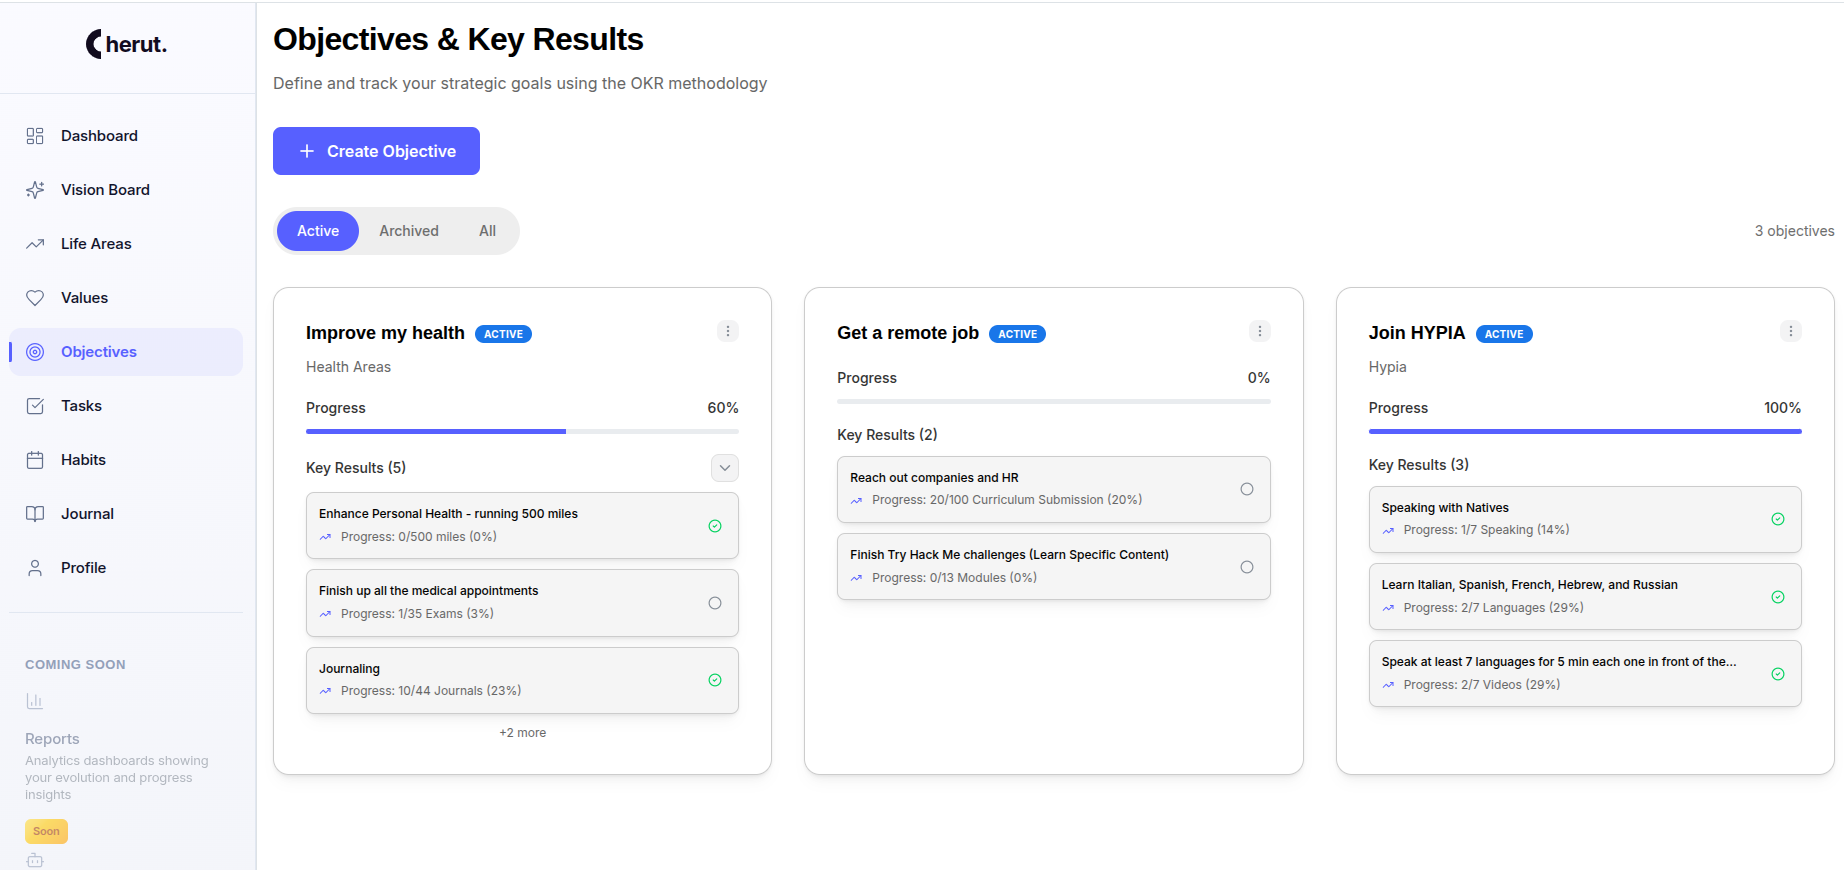
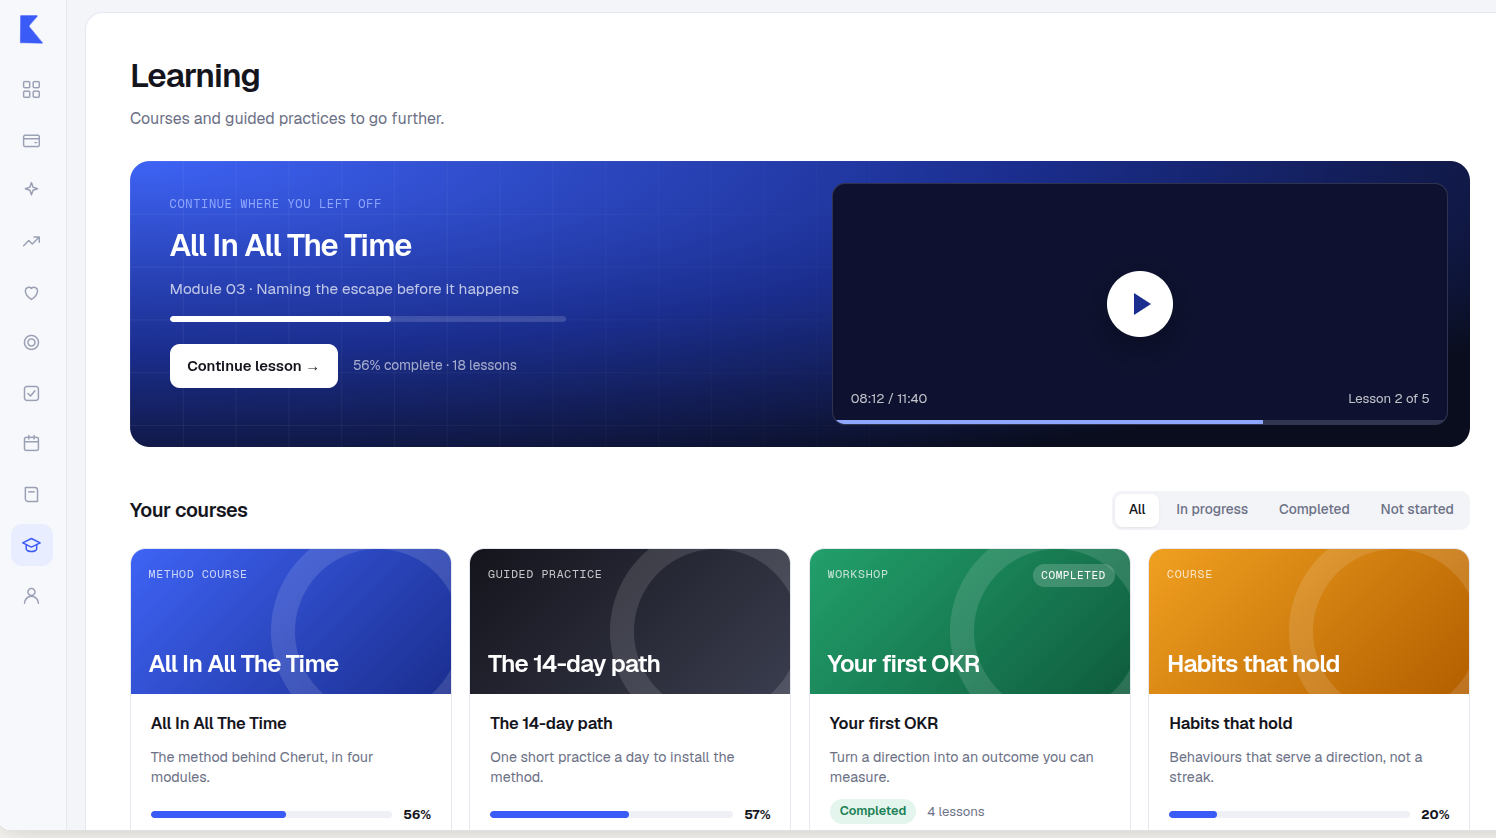
feat(frontend): update Cherut's cover and add a body screenshot
Replaced the cover image with the Learning dashboard screenshot and
set it as the detail page's body image too (modalImage). Widened that
body image's crop from 4:3 to 16:9 to match the screenshot's actual
aspect ratio instead of cropping its sides.

diff --git a/frontend/src/data/solutions.ts b/frontend/src/data/solutions.ts
@@ -64,6 +64,7 @@ Built for ambitious people who want to move faster without losing clarity on why
     status: 'Ideation',
     image: '/images/cherut.png',
     imageFit: 'contain',
+    modalImage: '/images/cherut.png',
     pt: {
       tagline: 'Sua vida, rodando em um sistema.',
       shortDescription: 'Sistema operacional completo para produtividade pessoal — OKRs, hábitos, calendário e diário em um só lugar.',

diff --git a/frontend/src/app/[locale]/solutions/[slug]/page.tsx b/frontend/src/app/[locale]/solutions/[slug]/page.tsx
@@ -205,7 +205,7 @@ export default async function ProductPage(
             <div
               className="rounded-2xl overflow-hidden mb-10"
               style={{
-                aspectRatio: '4/3',
+                aspectRatio: '16/9',
                 position: 'relative',
                 border: '1px solid rgba(10,10,15,0.07)',
               }}
